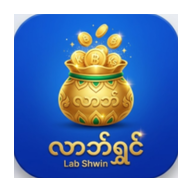
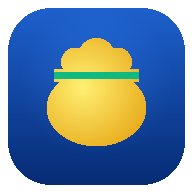
feat: update branding and app interface
- Refresh application icons and manifest configuration
- Add deposit and U9 bill filters to the search interface
- Remove unused Google Identity Services script

diff --git a/index.html b/index.html
@@ -211,9 +211,6 @@
       transform: scale(0.98);
     }
   </style>
-
-  <!-- Google Identity Services (GIS) SDK for OAuth2 Token Client Fallback -->
-  <script src="https://accounts.google.com/gsi/client" async defer></script>
 </head>
 <body class="min-h-screen flex flex-col justify-between selection:bg-blue-600 selection:text-white">
 
@@ -2840,12 +2837,18 @@
         <button type="button" id="qsearch-filter-all" onclick="setQuickSearchFilter('ALL')" class="px-2.5 py-1 rounded-lg font-bold bg-blue-600 text-white shadow-sm transition">အားလုံး</button>
         <button type="button" id="qsearch-filter-remit" onclick="setQuickSearchFilter('REMIT')" class="px-2.5 py-1 rounded-lg font-medium theme-card-sub border theme-text-muted hover:text-blue-500 transition">ငွေလွှဲ (THB⇄MMK)</button>
         <button type="button" id="qsearch-filter-cashout" onclick="setQuickSearchFilter('CASHOUT')" class="px-2.5 py-1 rounded-lg font-medium theme-card-sub border theme-text-muted hover:text-emerald-500 transition">KPay / ငွေထုတ်</button>
+        <button type="button" id="qsearch-filter-deposit" onclick="setQuickSearchFilter('DEPOSIT')" class="px-2.5 py-1 rounded-lg font-medium theme-card-sub border theme-text-muted hover:text-purple-400 transition">🏦 အပ်ငွေ</button>
+        <button type="button" id="qsearch-filter-u9" onclick="setQuickSearchFilter('U9')" class="px-2.5 py-1 rounded-lg font-medium theme-card-sub border theme-text-muted hover:text-cyan-400 transition">📶 U9 ဘေလ်</button>
         <button type="button" id="qsearch-filter-unpaid" onclick="setQuickSearchFilter('UNPAID')" class="px-2.5 py-1 rounded-lg font-medium theme-card-sub border theme-text-muted hover:text-amber-500 transition">⏳ မထုတ်ရသေး / အကြွေး</button>
+        <button type="button" id="qsearch-filter-expense" onclick="setQuickSearchFilter('EXPENSE')" class="px-2.5 py-1 rounded-lg font-medium theme-card-sub border theme-text-muted hover:text-rose-400 transition">💸 အသုံးစရိတ်</button>
       </div>
 
-      <div class="flex items-center justify-between text-[11px] theme-text-muted px-1">
-        <span id="quickSearchResultCount">ရှာဖွေမှု ရလဒ်: 0 ခု</span>
-        <span>ဘောက်ချာ သို့မဟုတ် ပြင်ဆင်ရန် တိုက်ရိုက်နှိပ်နိုင်ပါသည်</span>
+      <div class="flex flex-wrap items-center justify-between gap-1 text-[11px] theme-text-muted px-1">
+        <div class="flex items-center gap-1.5 flex-wrap">
+          <span id="quickSearchResultCount">ရှာဖွေမှု ရလဒ်: 0 ခု</span>
+          <span id="quickSearchTotalSummary" class="font-mono font-bold text-blue-400"></span>
+        </div>
+        <button type="button" onclick="exportQuickSearchCSV()" class="text-[10px] font-bold text-emerald-400 hover:underline">📥 CSV ထုတ်မည်</button>
       </div>
 
       <!-- Results Container -->
@@ -4068,7 +4071,9 @@
     // Normalize a transaction object so it strictly adheres to firebase-blueprint.json & firestore.rules
     function normalizeTxForFirestore(tx, ownerId) {
       const safeId = String(tx.id || ('TX-' + Date.now())).replace(/[^a-zA-Z0-9_\-]/g, '_').slice(0, 120);
-      const validType = ['REMIT', 'CASHOUT', 'CREDIT'].includes(tx.type) ? tx.type : 'REMIT';
+      const validType = ['REMIT', 'CASHOUT', 'CREDIT'].includes(tx.type)
+        ? tx.type
+        : (tx.type === 'DIRECT_CREDIT' ? 'CREDIT' : 'REMIT');
       const validStatus = ['PAID', 'UNPAID'].includes(tx.status) ? tx.status : 'PAID';
       const validOwedCurr = ['MMK', 'THB', 'NONE'].includes(tx.owedCurrency) ? tx.owedCurrency : 'NONE';
 
@@ -4196,6 +4201,9 @@
         delete item.createdAt;
         delete item.updatedAt;
         delete item.ownerId;
+        if (item.type === 'CREDIT') {
+          item.type = 'DIRECT_CREDIT';
+        }
         return item;
       });
       cloudTxs.sort((a, b) => new Date(b.date) - new Date(a.date));
@@ -7864,17 +7872,21 @@
         let badgeClass = '';
 
         if (isPrimary) {
+          const pm = r.payMethod || r.paymentMethod;
+          const stockRec = Number(r.stockReceived ?? r.totalStockReceived) || 0;
+          const commAmt = Number(r.commissionAmount ?? r.commAmount) || 0;
           typeLabel = `📦 U9 Primary ဖုန်းဘေလ်အဝယ် (${r.commRate || 0}%)`;
           displayTitle = 'U9 Primary Stock ဝယ်ယူမှု';
-          channelOrAccount = r.paymentMethod === 'CASH' ? 'ငွေသား' : r.paymentMethod === 'BANK' ? 'KPay/Bank' : 'U9 သီးသန့်အရင်း';
+          channelOrAccount = pm === 'CASH' ? 'ငွေသား' : pm === 'BANK' ? 'KPay/Bank' : 'U9 သီးသန့်အရင်း';
           amountMMK = Number(r.purchaseAmount) || 0;
-          profitMMK = Number(r.commAmount) || 0;
-          statusText = `ဘေလ်ရရှိ: ${formatMMK(r.totalStockReceived || 0)}`;
+          profitMMK = commAmt;
+          statusText = `ဘေလ်ရရှိ: ${formatMMK(stockRec)}`;
           badgeClass = 'bg-indigo-500/20 text-indigo-400 border border-indigo-500/30';
         } else if (isWithdrawComm) {
+          const ch = r.channel || r.withdrawMethod;
           typeLabel = '💰 U9 ကော်မရှင်အမြတ် ထုတ်ယူခြင်း';
           displayTitle = 'U9 ကော်မရှင် ထုတ်ယူမှု';
-          channelOrAccount = r.withdrawMethod === 'CASH' ? 'ငွေသား (Cash)' : 'KPay / Bank';
+          channelOrAccount = ch === 'CASH' ? 'ငွေသား (Cash)' : 'KPay / Bank';
           amountMMK = Number(r.withdrawAmount) || 0;
           profitMMK = 0;
           statusText = `${channelOrAccount} ဖြင့် ထုတ်ပြီး`;
@@ -7903,7 +7915,9 @@
           r.billAmount,
           r.sellingPrice,
           r.purchaseAmount,
+          r.stockReceived,
           r.totalStockReceived,
+          r.commissionAmount,
           r.commAmount,
           r.withdrawAmount,
           r.date,
@@ -8115,7 +8129,7 @@
             <div class="flex items-center justify-between gap-1.5 pt-1.5 border-t">
               <div>
                 ${isNotice && d.noticeStatus !== 'COMPLETED' ? `
-                  <button type="button" onclick="${closeSearchPrefix}fulfillWithdrawalNotice('${d.id}');" class="px-2.5 py-1 rounded-lg bg-emerald-600 hover:bg-emerald-500 text-white text-[10px] font-bold shadow">✓ ယခု ထုတ်ပေးမည်</button>
+                  <button type="button" onclick="${closeSearchPrefix}fulfillDepositNotice('${d.id}');" class="px-2.5 py-1 rounded-lg bg-emerald-600 hover:bg-emerald-500 text-white text-[10px] font-bold shadow">✓ ယခု ထုတ်ပေးမည်</button>
                 ` : `
                   <button type="button" onclick="${closeSearchPrefix}switchTab('deposits'); selectDepositorForForm('${safeName}', 'DEPOSIT_IN');" class="px-2.5 py-1 rounded-lg bg-purple-600/20 text-purple-400 text-[10px] font-bold">🏦 အပ်ငွေစာရင်းသို့</button>
                 `}
@@ -8393,6 +8407,14 @@
       tx.profitMMK = parseFloat(document.getElementById('editProfitMMK').value) || 0;
       tx.status = document.getElementById('editStatus').value;
       tx.note = document.getElementById('editNote').value.trim();
+
+      if (tx.u9RecordId || tx.cashoutType === 'U9_BILL') {
+        const u9Rec = (u9Data.records || []).find(r => r.id === tx.u9RecordId || r.linkedTxId === tx.id);
+        if (u9Rec) {
+          u9Rec.status = tx.status;
+          saveU9ToStorage();
+        }
+      }
 
       localStorage.setItem('thb_mmk_has_user_data', 'true');
       saveTransactionsToStorage();
@@ -9025,7 +9047,7 @@
       updateAllUI();
     };
 
-    const fulfillDepositNotice = window.fulfillDepositNotice = function(noticeId) {
+    const fulfillDepositNotice = window.fulfillDepositNotice = window.fulfillWithdrawalNotice = function(noticeId) {
       const notice = deposits.find(d => d.id === noticeId);
       if (!notice) return;
 
@@ -9846,7 +9868,7 @@
       if (search) {
         filtered = filtered.filter(r => {
           const typeText = r.type === 'BUY_PRIMARY' ? 'primary ဘေလ်အဝယ်' : r.type === 'WITHDRAW_COMM' ? 'ကော်မရှင် ထုတ်ယူ' : 'ဖုန်းဘေလ် အရောင်း';
-          const payText = r.paymentType === 'CASH' || r.withdrawMethod === 'CASH' || r.paymentMethod === 'CASH'
+          const payText = r.paymentType === 'CASH' || r.channel === 'CASH' || r.payMethod === 'CASH' || r.withdrawMethod === 'CASH' || r.paymentMethod === 'CASH'
             ? 'ငွေသား လက်ငင်း cash'
             : (r.paymentType === 'CREDIT' ? 'အကြွေး credit မဆပ်ရသေး' : 'kpay bank လက်ငင်း');
           return (
@@ -9858,7 +9880,8 @@
             String(r.billAmount || '').includes(search) ||
             String(r.sellingPrice || '').includes(search) ||
             String(r.purchaseAmount || '').includes(search) ||
-            String(r.commAmount || '').includes(search) ||
+            String(r.stockReceived || '').includes(search) ||
+            String(r.commissionAmount || r.commAmount || '').includes(search) ||
             String(r.withdrawAmount || '').includes(search) ||
             typeText.includes(search) ||
             payText.includes(search)
